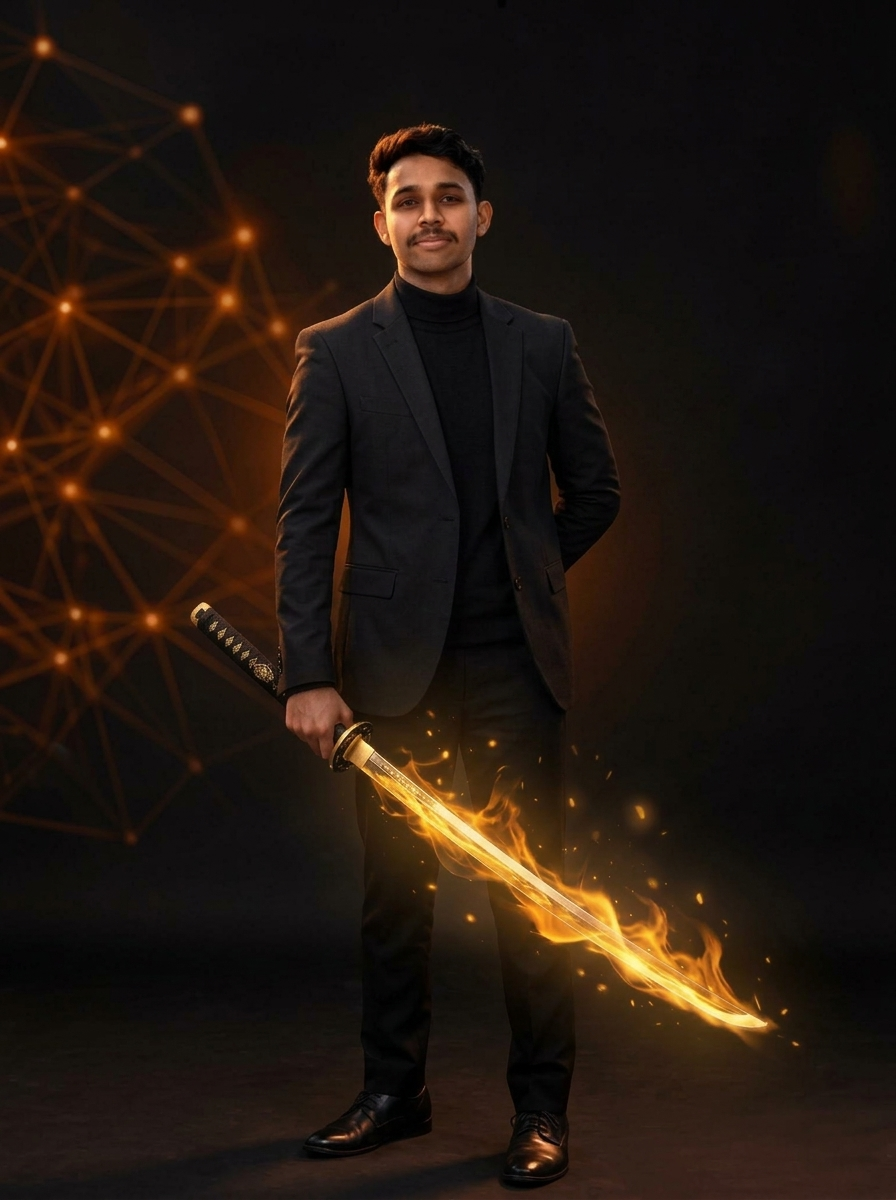
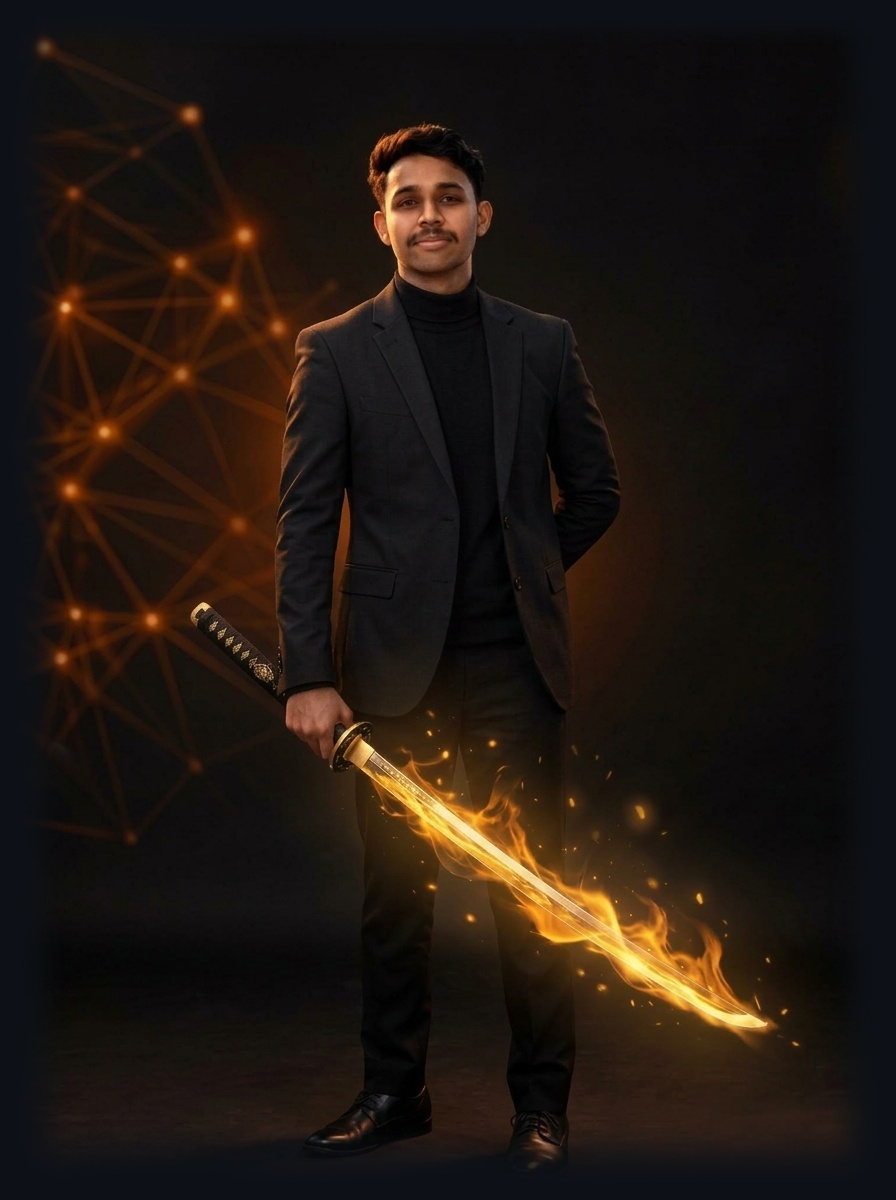
feat: seamlessly blend portrait background into GitHub dark mode (#0d1117)

diff --git a/README.md b/README.md
@@ -2,7 +2,7 @@
 
 <!-- 📸 Akhil Dev Portrait with Positive Power Katana -->
 <a href="https://github.com/Akhil-Dev-Git">
-  <img src="./assets/akhil_katana_standing.jpg" width="380" style="max-width: 90%; border-radius: 18px; border: 1.5px solid rgba(255, 122, 0, 0.35); box-shadow: 0 10px 35px rgba(0, 0, 0, 0.85);" alt="Akhil Dev with Katana" />
+  <img src="./assets/akhil_katana_standing.png" width="380" alt="Akhil Dev with Katana" />
 </a>
 
 <br/><br/>
